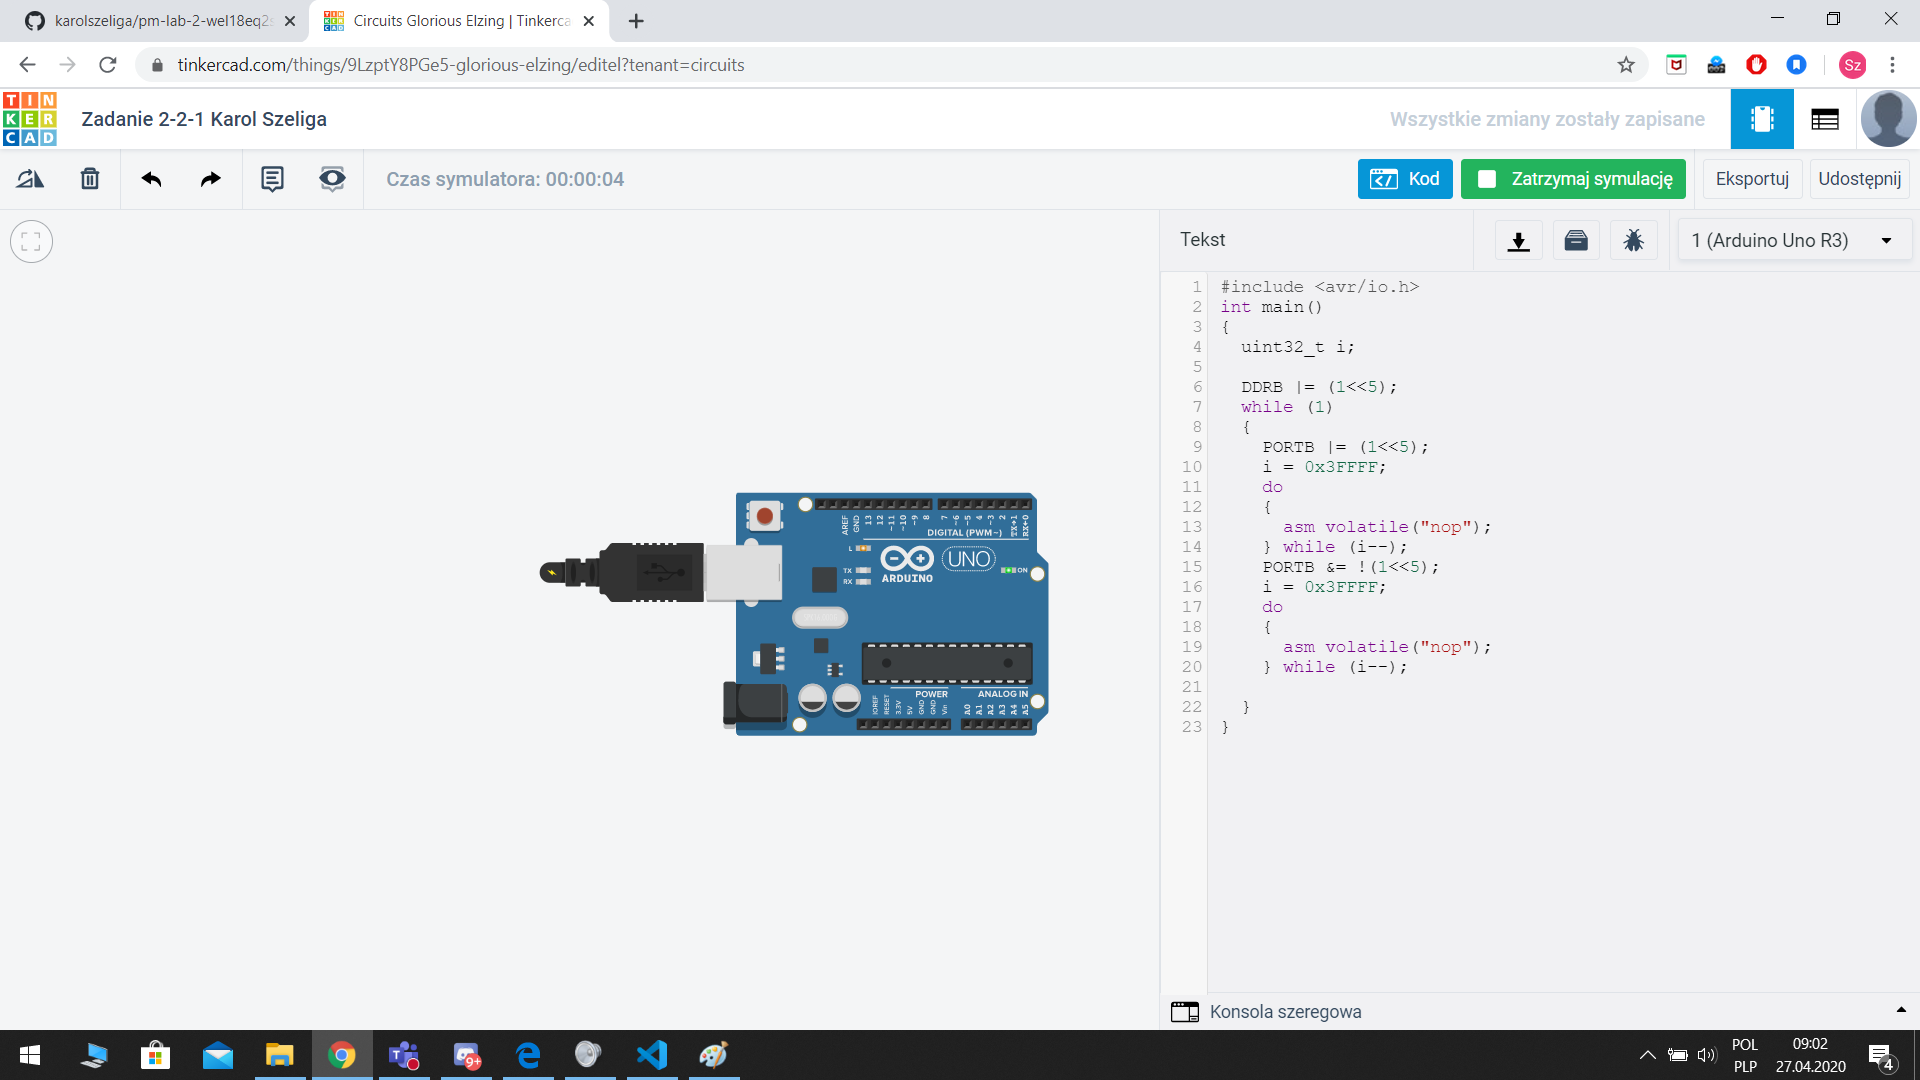
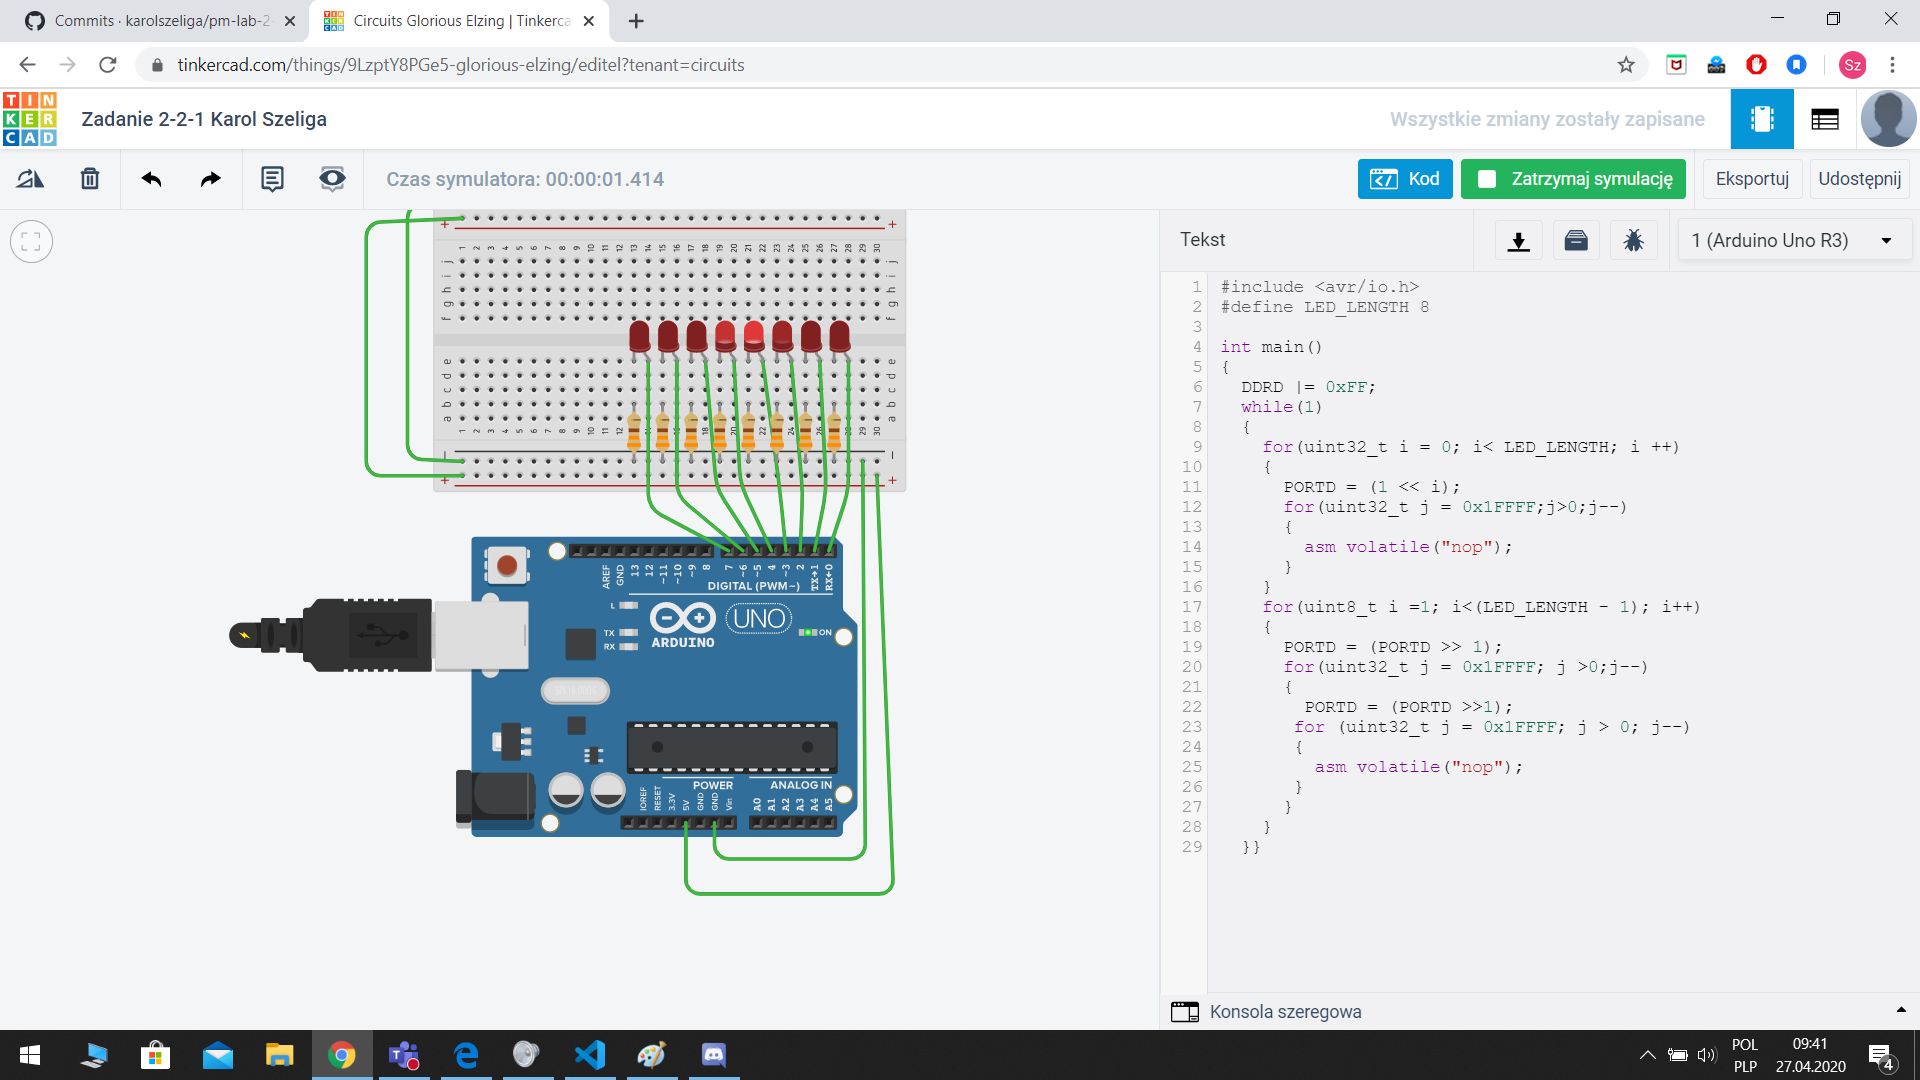
„Wykonano zadanie 2.2.3 – wskaźniki

diff --git a/Zadanie-2-2/src/main.cpp b/Zadanie-2-2/src/main.cpp
@@ -1,29 +1,42 @@
 #include <avr/io.h>
-#define LED_LENGTH 8
+uint8_t ledState[] = {0xFF,0x7E,0x3C,0x18,0x00,0x18,0x3C,0x7E};
+uint8_t *pLedState = ledState;
+bool state = true;
+
+void togglePinD13(bool state)
+{
+  PORTB = (state<<5);
+  state =!(state);
+}
+
+void delay()
+{
+  for(uint32_t j = 0x2FFFF; j > 0; j--)
+  {
+    asm volatile("nop");
+  }
+}
+
 
 int main()
 {
+  DDRB |=(1<<5);
   DDRD |= 0xFF;
-  while(1)
+  while (1)
   {
-    for(uint32_t i = 0; i< LED_LENGTH; i ++)
+    togglePinD13(&state);
+    delay();
+    for(uint8_t i = 0; i<sizeof(ledState);i++)
     {
-      PORTD = (1 << i);
-      for(uint32_t j = 0x1FFFF;j>0;j--)
-      {
-        asm volatile("nop");
-      }
+      PORTD = ledState[i];
+      delay();
     }
-    for(uint8_t i =1; i<(LED_LENGTH - 1); i++)
+    pLedState = ledState;
+    for(uint8_t i =0; i <sizeof(ledState); i ++)
     {
-      PORTD = (PORTD >> 1);
-      for(uint32_t j = 0x1FFFF; j >0;j--)
-      {
-        PORTD = (PORTD >>1);
-       for (uint32_t j = 0x1FFFF; j > 0; j--)
-       {
-         asm volatile("nop");
-       }
-      }
+      PORTD = *pLedState;
+      pLedState++;
+      delay();
     }
-  }}
+  }
+}
